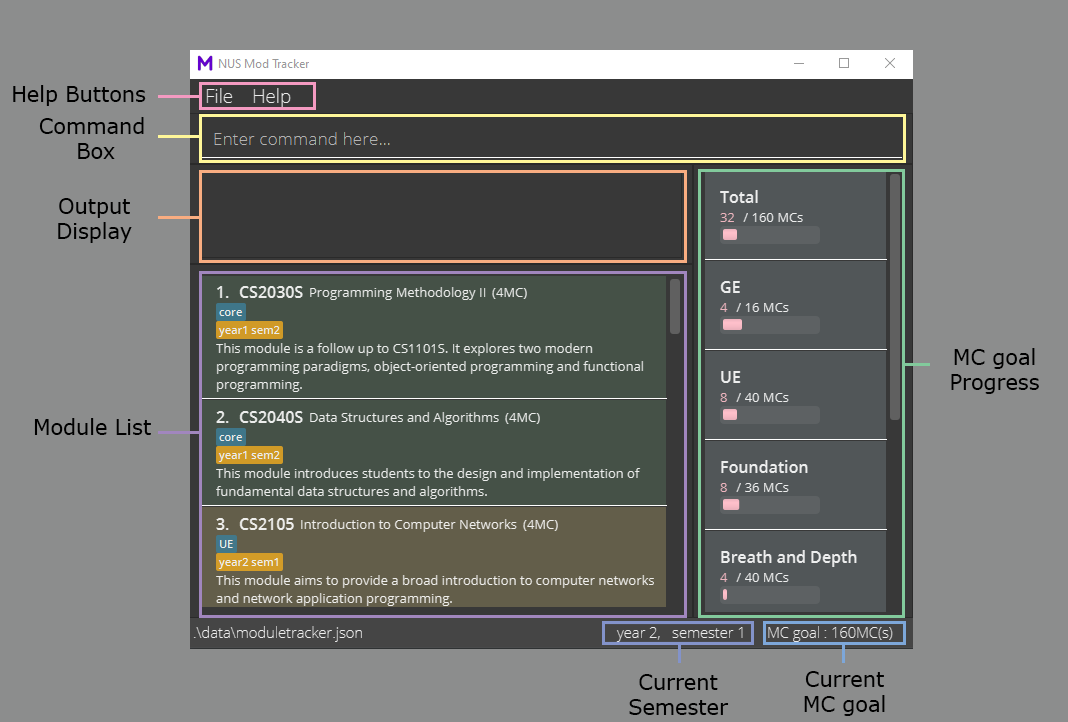
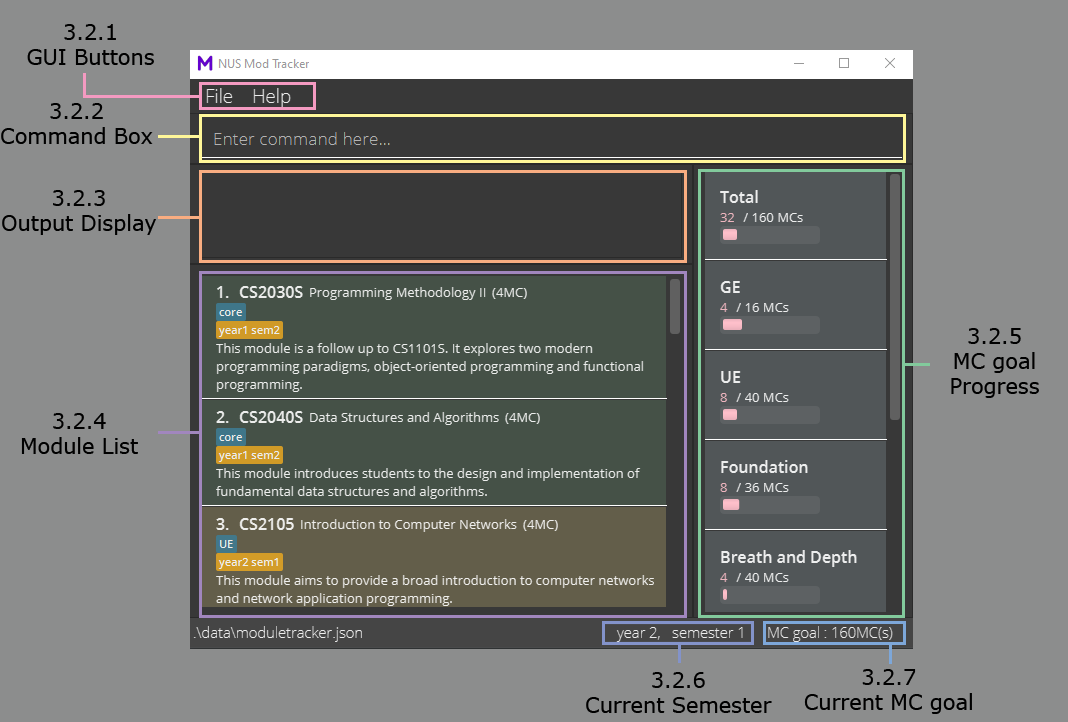
Rename Help Buttons to GUI Buttons
#163

diff --git a/docs/UserGuide.md b/docs/UserGuide.md
@@ -92,11 +92,11 @@ Here is how our application's homepage works
 
 ![UiExplanation](images/UiExplanation.png)
 
-#### 3.2.1 Help Buttons
+#### 3.2.1 GUI Buttons
 * Buttons have been placed at the top of our application to help you to exit the application and access the help function using your mouse.
 
 #### 3.2.2 Command Box
-* Location for you to key in your inputs.
+* Here is the location for you to key in your inputs.
 
 #### 3.2.3 Output Display
 * Here is where our application will echo out your inputs entered.
